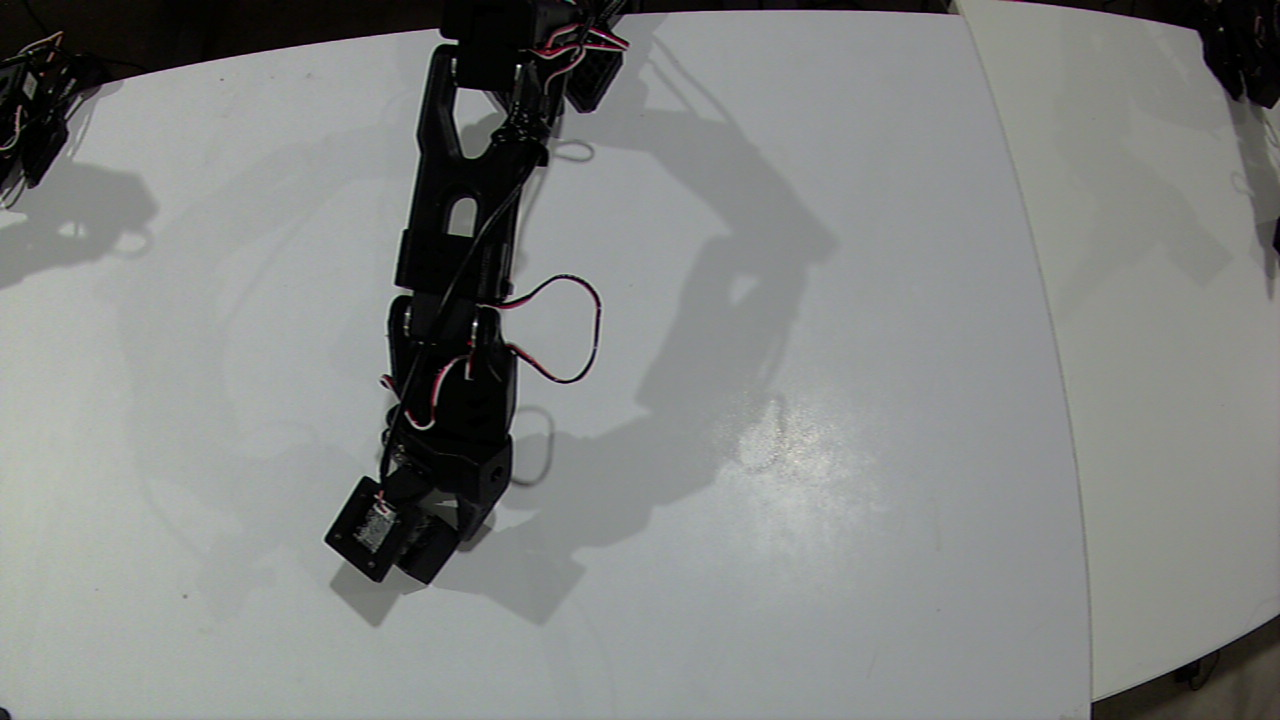
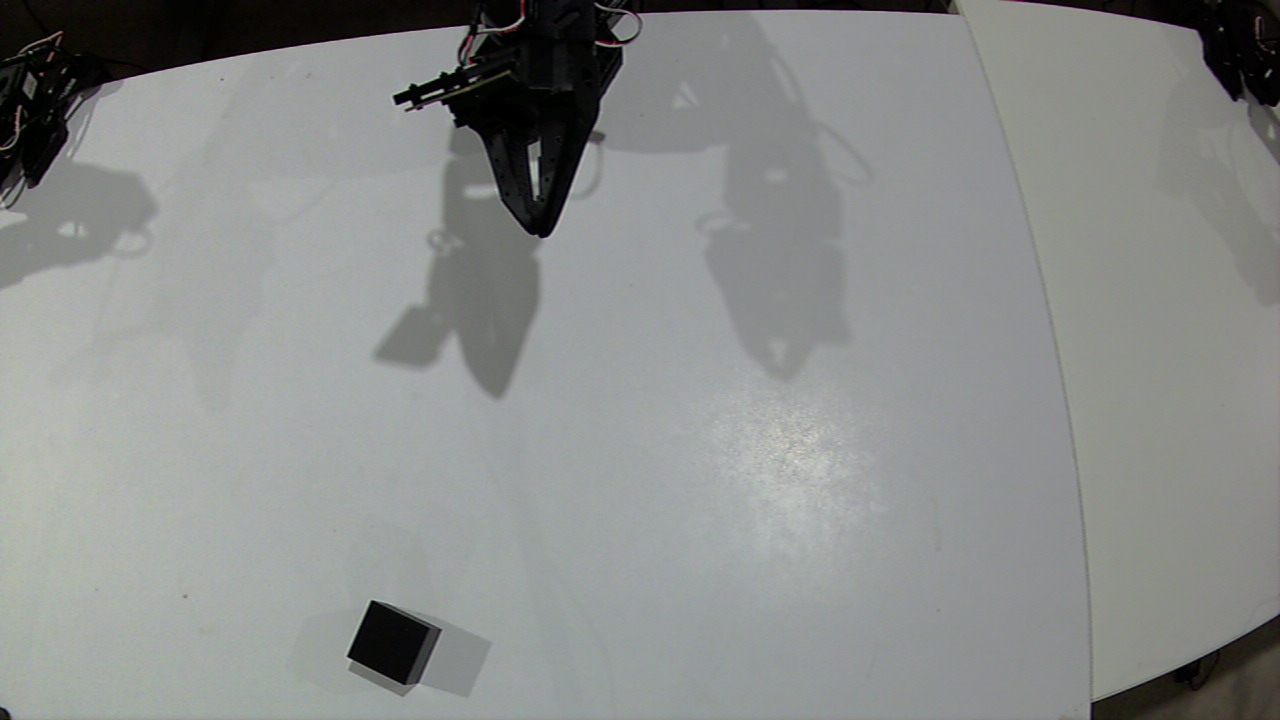
Update tools for arm-007__gpt-6-astra__grasp-cube
{"agent_id": "arm-007__gpt-6-astra__grasp-cube", "designation": "arm-007", "identity_version": 2, "model": "gpt-6-astra", "provider": "codex", "task_definition": {"description": "Start episode, pickup the black cube, bring black cube to home position, confirm successful grasp, stop episode, return object to new position, return home, repeat", "id": "grasp-cube", "success_criteria": ["successful episode coverage across the entire workspace", "achieve at least 50 successful episodes an hour"], "version": 2}, "task_id": "grasp-cube", "task_sha256": "e6c8adbb1562fdc6af3405e2e618046b110e27856c520c9f5cd329c258fb3818", "task_version": 2, "tools_sha256": "eb11e1db42b4114a6a05d083edc8b1a90f5def1879995139b37e715b06acc3cb"}

Changed region(s): [[0.25, 0.0, 0.5938, 0.9778], [0.9375, 0.1222, 1.0, 0.3972], [0.9688, 0.0, 1.0, 0.0306]]

diff --git a/agents/arm-007__gpt-6-astra__grasp-cube/RUN_NOTES.md b/agents/arm-007__gpt-6-astra__grasp-cube/RUN_NOTES.md
@@ -1,11 +1,16 @@
 # Cube run, 2026-10-05
 
-Read AGENTS.md and TOOLS.md first. This run saved 17 successful episodes and 9 failures. Successful pickups sampled 16 distinct commanded locations including the manual initial pickup; full workspace coverage was not achieved. The best automated sequence ran about 21–23 seconds per cycle, but recovery failures prevented achievement of the overall hourly target.
+Read AGENTS.md and TOOLS.md first. Cumulative totals: 28 successful episodes and 15 failures, including 11 additional successes in the resumed run. Successful automatic receipts contain 17 distinct commanded source positions; manual recovery positions add samples, but full workspace coverage was not achieved. The best automated sequence ran about 21–23 seconds per cycle, but recovery failures prevented achievement of the overall hourly target.
 
-Final state: arm at the four-joint home pose, all six motor fault values zero, cube resting on the table, recorder stopped. The target in cube_cycle_state.json is NOT a verified cube position. cube_recovery_required.json blocks blind restart. Re-localize and validate a pickup before clearing it.
+Final state: arm at the four-joint home pose, all six motor fault values zero, cube resting near the front edge of the visible table around top-camera pixel (390,645), recorder stopped. The target in cube_cycle_state.json is NOT a verified cube position. cube_recovery_required.json blocks blind restart. Re-localize and validate a pickup before clearing it.
 
 Working central/far pickup: shoulder lift 15, elbow 20, wrist flex 30, wrist roll approximately -30 degrees; pan varies. Use live calibration and supplied move/settle; home must only command its four joints. Contact-stop gripper approach worked repeatedly near 24 percent; retain contact goal with modest closing bias. Mere contact is insufficient: verify retained cube at home with camera. Initial excessive squeezing triggered gripper overload; only the documented gripper recovery was used, never arm fault overrides.
 
 The grid uses FK to vary elbow while retaining nominal height/pitch, but this is NOT a calibrated robot-to-camera/table transform. Some closer placements led to repeated missed or slipping grasps. Open-loop replay of placement coordinates is unreliable after a release rotates or shifts the cube. Do not repeatedly chase the cube using those stale coordinates. Camera robot alignment and table height remain uncalibrated in calibration/ready.json.
 
 Episode receipts are in cube_cycles.jsonl and supplemental_episodes.json. Failed exception episodes are supplemented there so cube_status.py counts all outcomes. The recorder/upload service may remove completed episode files after upload. Source tools and recovery logs remain in tools/.
+
+
+Resumed run finding: fixed gripper goal23 still occasionally slipped. Gripper output Torque_Limit was reduced from500 to220 (below the existing overload threshold250), with protection unchanged. Goal0 then held four consecutive cycles before another slip. The current output limit remains220; final gripper goal was set to its present position. Batch grip() now checks that limit before closing, and open time is1.3 seconds. Gripper temperature reached51C, with no final motor faults. Do not infer grip reliability from contact width alone. cube_recovery_required.json blocks restart after the last unsuccessful recovery moved the cube near the table edge. Establish a secure grasp and placement before clearing it.
+
+Latest recorded recovery 20261005T172926-1de3d0b5 failed retained-home confirmation and is marked false. Recorder was explicitly checked stopped in cube_final_status.json. The cumulative 50-successes/hour target remains unmet despite short successful batches running about21 seconds per cycle.
